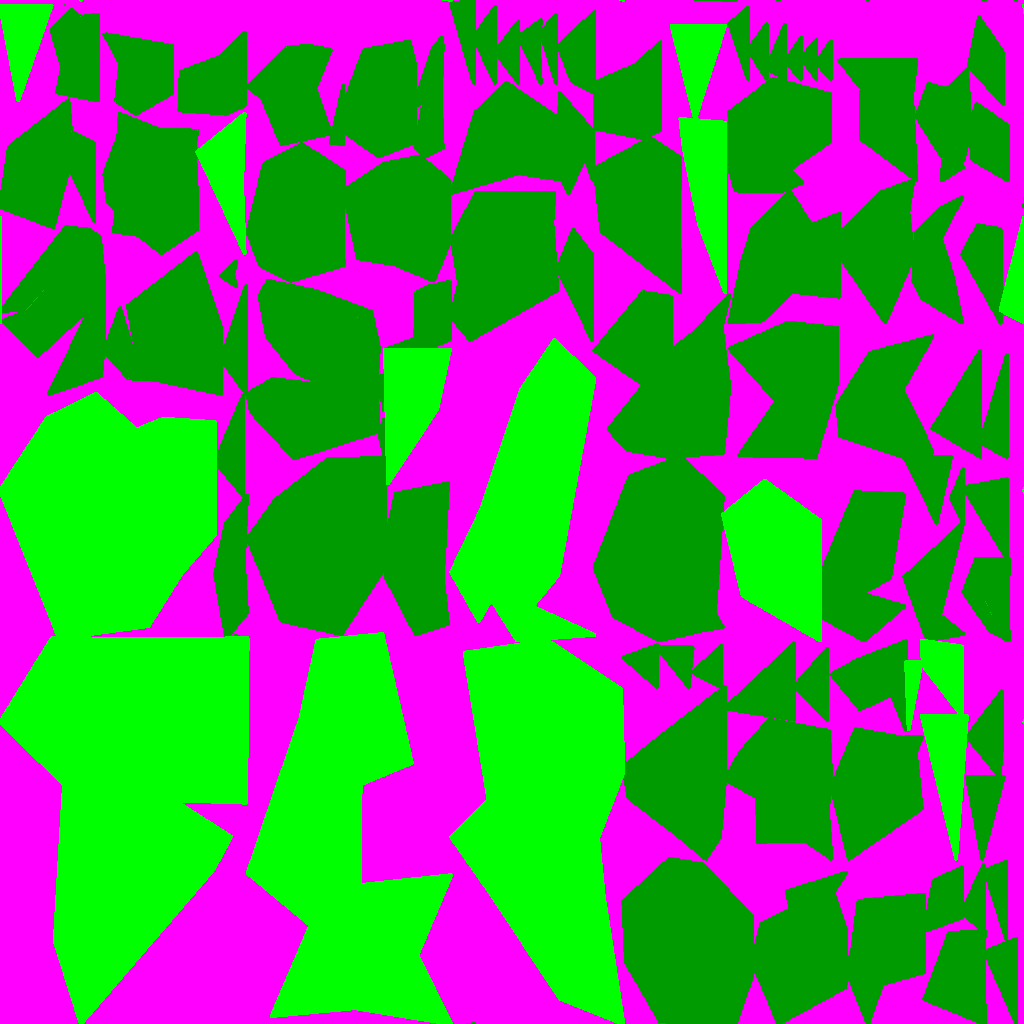
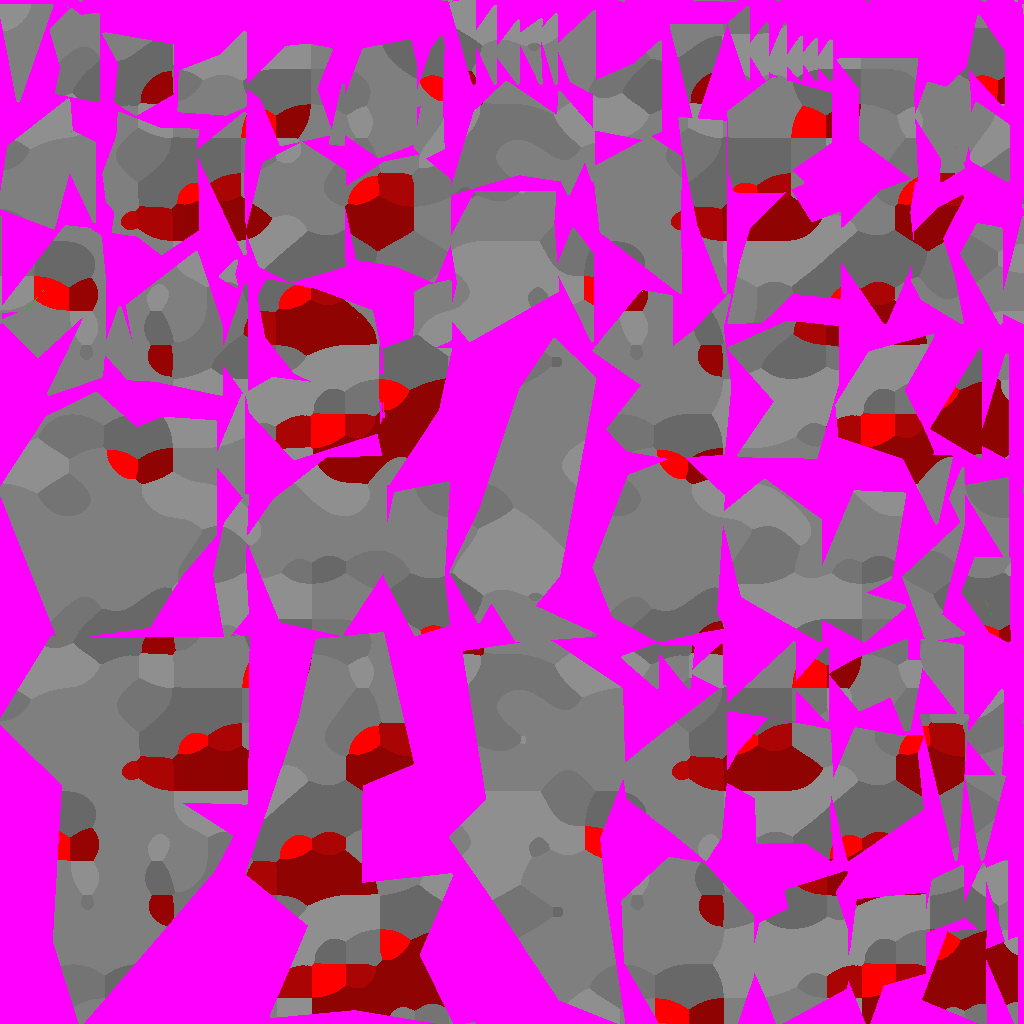
change model textures

diff --git a/DirectXFramework/MainMenu.cpp b/DirectXFramework/MainMenu.cpp
@@ -43,7 +43,31 @@ MainMenu::MainMenu(std::shared_ptr<Graphics> gfx, std::shared_ptr<Input> input, 
 	tempEntity->SetPosition({ button_pos.x,button_pos.y + button_size.y, button_pos.z - button_size.z * 2.5f * 2 });
 	AddEntity(tempEntity);
 
+	tempDimension = rl_->GetDimensions("gndblk");
+	tempScale = { 1 / tempDimension.x, 1 / tempDimension.y, 1 / tempDimension.z };
+	tempPosition = { 0,1,0};
+	
+	tempDimension = rl_->GetDimensions("tree");
+	Vecf3 tempSca2 = { 1 / tempDimension.x, 2 / tempDimension.y, 1 / tempDimension.z };
 
+	tempDimension = rl_->GetDimensions("rock");
+	Vecf3 tempSca3 = { 1 / tempDimension.x, 1 / tempDimension.y, 1 / tempDimension.z };
+
+	for (float i = 0; i < 10; i++)
+	{
+		for (float j = 0; j < 10; j++) {
+			AddModel("gndblk", { i,1,j }, tempScale, true);
+
+			if (fmod(i,2) == 1) {
+				AddModel("tree", { i,2,j }, tempSca2, true);
+			}
+			else {
+				AddModel("rock", { i,2,j }, tempSca3, true);
+			}
+		}
+		
+	}
+	
 	
 }
 

diff --git a/DirectXFramework/BoxyGame.cpp b/DirectXFramework/BoxyGame.cpp
@@ -44,6 +44,7 @@ void BoxyGame::Initialize(HWND hwnd)
 	rl_->AddCubeTexture("rail", L"Images/rail.png");
 	rl_->AddPosNormTexModel("tree", "Models\\tree.obj", L"Images\\tree.png");
 	rl_->AddPosNormTexModel("rock", "Models\\rock.obj", L"Images\\rock.png");
+	rl_->AddPosNormTexModel("gndblk", "Models\\ground-block.obj", L"Images\\ground-block.png");
 }
 
 void BoxyGame::Update()

diff --git a/DirectXFramework/Player.h b/DirectXFramework/Player.h
@@ -18,8 +18,8 @@ private:
 	std::shared_ptr<Input> input_;
 	
 public:
-	float movementSpeed = 20;
-	float maxVelocity_ = 20;
+	float movementSpeed = 30;
+	float maxVelocity_ = 30;
 	float frictionPower_ = 5;
 	Vecf3 friction_ = { 0,0,0 };
 	Vecf3 acceleration_ = { 0,0,0 }; 
